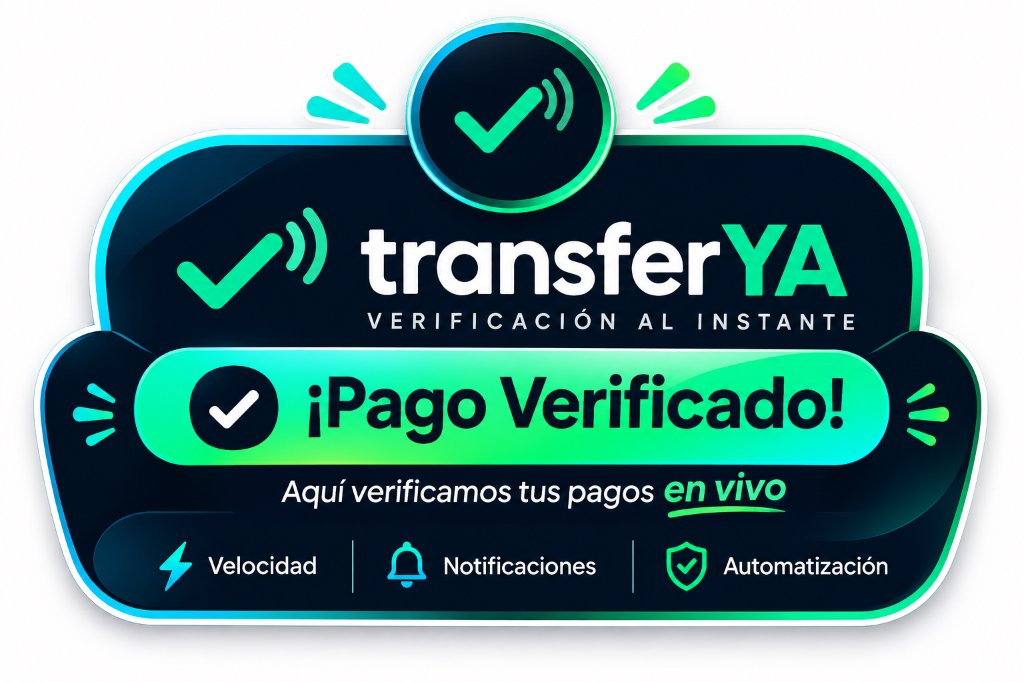
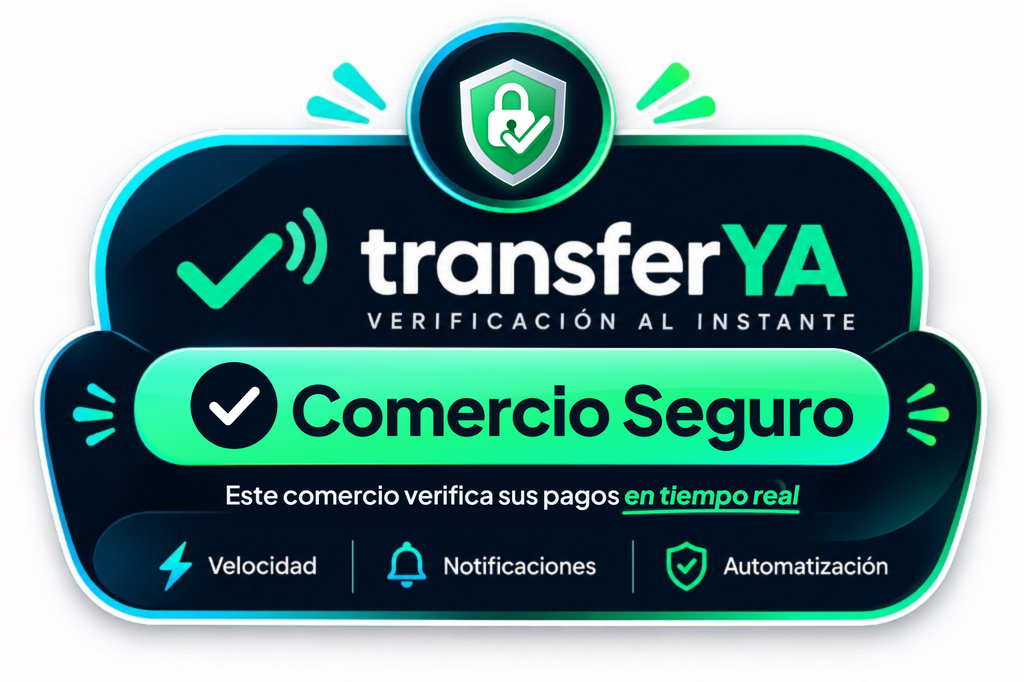
feat(stickers): nueva insignia Comercio Seguro con escudo-candado y generador actualizado

Changed region(s): [[0.125, 0.4927, 0.875, 0.7698], [0.4375, 0.0924, 0.5625, 0.2771]]

diff --git a/public/sticker.html b/public/sticker.html
@@ -132,10 +132,10 @@
           <span>Material Oficial Antifraude</span>
         </div>
         <h1 class="text-2xl sm:text-3xl font-extrabold text-[#0E1B2B] tracking-tight">
-          Sticker de Mostrador: «Aquí verificamos tus pagos»
+          Sticker de Mostrador: «Comercio Seguro»
         </h1>
         <p class="text-sm text-[#0E1B2B]/70 mt-1">
-          Pégalo al lado de tu código QR de Nequi o DaviPlata. Disuade a los estafadores antes de que intenten mostrarte un pantallazo falso.
+          Pégalo al lado de tu código QR de Nequi, DaviPlata o Bancolombia. Avisa claramente que <strong>este comercio verifica sus pagos en tiempo real</strong> y frena los pantallazos falsos.
         </p>
       </div>
 
@@ -260,6 +260,19 @@
 
       const businessLabel = merchantName ? `<span class="px-2.5 py-0.5 rounded-full bg-black/10 text-[10px] font-black uppercase tracking-wider inline-block max-w-full leading-tight text-center">${escapeHtml(merchantName)}</span>` : '';
 
+      // Ícono oficial de seguridad (Escudo con candado + check) para evitar duplicar el isotipo de TransferYA
+      const shieldLockSvg = `
+        <svg class="w-full h-full" viewBox="0 0 64 64" fill="none">
+          <path d="M32 5 L54 14.5 L53 31 C52 44.5 42.5 53 32 58.5 C21.5 53 12 44.5 11 31 L10 14.5 Z" fill="${iconStroke}" stroke="#FFFFFF" stroke-width="2.6" stroke-linejoin="round"/>
+          <path d="M25.5 29 V24.5 C25.5 20.6 28.4 18 32 18 C35.6 18 38.5 20.6 38.5 24.5 V29" stroke="#FFFFFF" stroke-width="3.6" stroke-linecap="round"/>
+          <rect x="21" y="28" width="22" height="17" rx="4" fill="#FFFFFF"/>
+          <circle cx="32" cy="35" r="2.3" fill="${iconStroke}"/>
+          <path d="M30.8 36.2 L33.2 36.2 L33.8 41.2 L30.2 41.2 Z" fill="${iconStroke}"/>
+          <path d="M30.5 41.5 L35.5 46.5 L47 34" stroke="${iconStroke}" stroke-width="6.8" stroke-linecap="round" stroke-linejoin="round"/>
+          <path d="M30.5 41.5 L35.5 46.5 L47 34" stroke="#FFFFFF" stroke-width="4" stroke-linecap="round" stroke-linejoin="round"/>
+        </svg>
+      `;
+
       // TIPO: SELLO REDONDO DE SEGURIDAD (Diámetro ~9.5 cm / 4 por hoja)
       if (type === 'circle') {
         return `
@@ -267,26 +280,22 @@
             <!-- Arco superior / Badge de seguridad -->
             <div class="mt-1">
               <span class="text-[10px] sm:text-[11px] font-black uppercase tracking-widest ${badgeClass} px-3 py-0.5 rounded-full inline-block shadow-sm">
-                ● AUDIO &amp; WHATSAPP EN VIVO ●
+                ● VERIFICACIÓN EN TIEMPO REAL ●
               </span>
             </div>
 
-            <!-- Centro: Ícono Check que suena + Titular Contundente -->
+            <!-- Centro: Escudo Candado de Seguridad + Titular Contundente -->
             <div class="flex flex-col items-center gap-1.5 my-auto">
-              <div class="w-14 h-14 sm:w-16 sm:h-16 rounded-2xl ${iconBg} p-2.5 border border-white/20 flex items-center justify-center shadow-md">
-                <svg class="w-full h-full" viewBox="0 0 64 64" fill="none">
-                  <path d="M10 34 L23 47 L44 18" stroke="${iconStroke}" stroke-width="7" stroke-linecap="round" stroke-linejoin="round"/>
-                  <path d="M48 24 C51 27.5 51 34.5 48 38" stroke="${iconStroke}" stroke-width="4.5" stroke-linecap="round"/>
-                  <path d="M55 18 C60 24 60 38 55 44" stroke="${iconStroke}" stroke-width="4.5" stroke-linecap="round"/>
-                </svg>
+              <div class="w-14 h-14 sm:w-16 sm:h-16 rounded-2xl ${iconBg} p-2 border border-white/20 flex items-center justify-center shadow-md">
+                ${shieldLockSvg}
               </div>
               
               <div class="space-y-0.5">
                 <h3 class="text-base sm:text-lg font-black uppercase tracking-tight leading-tight">
-                  AQUÍ VERIFICAMOS<br><span class="${titleHighlight}">TUS PAGOS</span>
+                  COMERCIO <span class="${titleHighlight}">SEGURO</span>
                 </h3>
-                <p class="text-[10px] sm:text-[11px] font-bold ${secondaryText} leading-snug">
-                  Alerta en voz alta y confirmación en caja
+                <p class="text-[10px] sm:text-[11px] font-bold ${secondaryText} leading-snug max-w-[195px] mx-auto">
+                  Este comercio verifica sus pagos en tiempo real
                 </p>
               </div>
 
@@ -319,27 +328,23 @@
 
             <!-- Centro Gigante -->
             <div class="flex flex-col items-center gap-3 my-auto">
-              <div class="w-20 h-20 sm:w-24 sm:h-24 rounded-3xl ${iconBg} p-3.5 border-2 border-white/25 flex items-center justify-center shadow-xl">
-                <svg class="w-full h-full" viewBox="0 0 64 64" fill="none">
-                  <path d="M10 34 L23 47 L44 18" stroke="${iconStroke}" stroke-width="7" stroke-linecap="round" stroke-linejoin="round"/>
-                  <path d="M48 24 C51 27.5 51 34.5 48 38" stroke="${iconStroke}" stroke-width="4.5" stroke-linecap="round"/>
-                  <path d="M55 18 C60 24 60 38 55 44" stroke="${iconStroke}" stroke-width="4.5" stroke-linecap="round"/>
-                </svg>
+              <div class="w-20 h-20 sm:w-24 sm:h-24 rounded-3xl ${iconBg} p-3 border-2 border-white/25 flex items-center justify-center shadow-xl">
+                ${shieldLockSvg}
               </div>
               
               <div class="space-y-1">
                 <h2 class="text-xl sm:text-2xl font-black uppercase tracking-tight leading-tight">
-                  AQUÍ VERIFICAMOS<br><span class="${titleHighlight}">TUS PAGOS EN VIVO</span>
+                  COMERCIO <span class="${titleHighlight}">SEGURO</span>
                 </h2>
                 <p class="text-xs sm:text-sm font-bold ${secondaryText} max-w-xs mx-auto">
-                  El sistema canta cada transferencia en voz alta y avisa al WhatsApp de la caja al instante.
+                  Este comercio verifica sus pagos en tiempo real. Cada transferencia se confirma en caja al instante.
                 </p>
               </div>
 
               ${businessLabel ? `<div class="px-3 py-1 rounded-lg bg-black/10 text-xs font-black uppercase tracking-wider">${businessLabel}</div>` : ''}
 
               <div class="px-3 py-1.5 rounded-xl bg-black/10 border border-current/15 text-[10px] sm:text-xs font-bold">
-                <span>⚠ Por favor espere la confirmación sonora de la caja antes de retirar mercancía</span>
+                <span>⚠ Por favor espere la confirmación en caja antes de retirar mercancía</span>
               </div>
             </div>
 
@@ -361,20 +366,16 @@
         return `
           <div class="relative rounded-2xl ${bgClass} p-3.5 sm:p-4 shadow-sm flex items-center justify-between gap-4 max-w-md mx-auto">
             <div class="flex items-center gap-3">
-              <div class="w-11 h-11 rounded-xl ${iconBg} p-2 border border-white/20 shrink-0 flex items-center justify-center shadow-sm">
-                <svg class="w-full h-full" viewBox="0 0 64 64" fill="none">
-                  <path d="M10 34 L23 47 L44 18" stroke="${iconStroke}" stroke-width="7" stroke-linecap="round" stroke-linejoin="round"/>
-                  <path d="M48 24 C51 27.5 51 34.5 48 38" stroke="${iconStroke}" stroke-width="4.5" stroke-linecap="round"/>
-                  <path d="M55 18 C60 24 60 38 55 44" stroke="${iconStroke}" stroke-width="4.5" stroke-linecap="round"/>
-                </svg>
+              <div class="w-11 h-11 rounded-xl ${iconBg} p-1.5 border border-white/20 shrink-0 flex items-center justify-center shadow-sm">
+                ${shieldLockSvg}
               </div>
               <div>
                 <div class="flex items-center gap-1.5">
-                  <span class="text-xs sm:text-sm font-black uppercase tracking-tight">Verificación en Vivo</span>
+                  <span class="text-xs sm:text-sm font-black uppercase tracking-tight">Comercio Seguro</span>
                   ${businessLabel}
                 </div>
                 <p class="text-[10px] sm:text-[11px] font-bold ${secondaryText} leading-snug">
-                  Tu pago canta en la caja y avisa por WhatsApp.
+                  Este comercio verifica sus pagos en tiempo real.
                 </p>
               </div>
             </div>
@@ -391,21 +392,17 @@
         return `
           <div class="relative rounded-2xl ${bgClass} p-4 sm:p-5 shadow-sm flex flex-col sm:flex-row items-center justify-between gap-4 text-left">
             <div class="flex items-center gap-3.5">
-              <!-- Check que suena -->
-              <div class="w-12 h-12 rounded-xl ${iconBg} p-2 border border-white/20 shrink-0 flex items-center justify-center">
-                <svg class="w-full h-full" viewBox="0 0 64 64" fill="none">
-                  <path d="M10 34 L23 47 L44 18" stroke="${iconStroke}" stroke-width="7" stroke-linecap="round" stroke-linejoin="round"/>
-                  <path d="M48 24 C51 27.5 51 34.5 48 38" stroke="${iconStroke}" stroke-width="4.5" stroke-linecap="round"/>
-                  <path d="M55 18 C60 24 60 38 55 44" stroke="${iconStroke}" stroke-width="4.5" stroke-linecap="round"/>
-                </svg>
+              <!-- Escudo Candado -->
+              <div class="w-12 h-12 rounded-xl ${iconBg} p-1.5 border border-white/20 shrink-0 flex items-center justify-center">
+                ${shieldLockSvg}
               </div>
               <div>
                 <div class="flex items-center gap-2">
-                  <span class="text-base sm:text-lg font-extrabold tracking-tight">Aquí verificamos tus pagos</span>
+                  <span class="text-base sm:text-lg font-extrabold tracking-tight">Comercio Seguro</span>
                   ${businessLabel}
                 </div>
                 <p class="text-xs ${secondaryText} font-medium mt-0.5">
-                  Esperar confirmación de audio y WhatsApp antes de retirar mercancía.
+                  Este comercio verifica sus pagos en tiempo real. Esperar confirmación antes de retirar mercancía.
                 </p>
               </div>
             </div>
@@ -427,15 +424,11 @@
           <div class="flex items-start justify-between gap-2">
             <div class="flex items-center gap-2">
               <div class="w-8 h-8 rounded-lg ${iconBg} p-1 border border-white/20 shrink-0 flex items-center justify-center">
-                <svg class="w-full h-full" viewBox="0 0 64 64" fill="none">
-                  <path d="M10 34 L23 47 L44 18" stroke="${iconStroke}" stroke-width="7.5" stroke-linecap="round" stroke-linejoin="round"/>
-                  <path d="M48 24 C51 27.5 51 34.5 48 38" stroke="${iconStroke}" stroke-width="5" stroke-linecap="round"/>
-                  <path d="M55 18 C60 24 60 38 55 44" stroke="${iconStroke}" stroke-width="5" stroke-linecap="round"/>
-                </svg>
+                ${shieldLockSvg}
               </div>
               <div>
-                <span class="text-[13px] font-extrabold block leading-tight">Aquí verificamos tus pagos</span>
-                <span class="text-[9px] ${secondaryText} block font-medium">Validación por audio y WhatsApp</span>
+                <span class="text-[13px] font-extrabold block leading-tight">Comercio Seguro</span>
+                <span class="text-[9px] ${secondaryText} block font-medium">Este comercio verifica sus pagos en tiempo real</span>
               </div>
             </div>
             ${businessLabel}
@@ -459,13 +452,15 @@
         .replace(/'/g, '&#039;');
     }
 
+    const STICKER_BADGE_SRC = '/images/sticker-diecut-badge.jpg?v=2';
+
     function getDiecutCardHtml(maxWidthClass, merchantName) {
       const cleanName = merchantName ? escapeHtml(merchantName.trim().toUpperCase()) : '';
 
       if (!cleanName) {
         return `
           <div class="relative w-full ${maxWidthClass} aspect-[1024/682] select-none mx-auto">
-            <img src="/images/sticker-diecut-badge.jpg" alt="Sticker Oficial TransferYA" class="w-full h-full object-contain pointer-events-none drop-shadow-md" />
+            <img src="${STICKER_BADGE_SRC}" alt="Sticker Oficial Comercio Seguro TransferYA" class="w-full h-full object-contain pointer-events-none drop-shadow-md" />
           </div>
         `;
       }
@@ -482,33 +477,39 @@
 
       // Estimación del ancho para centrar el subrayado curvado neón
       const charWidthEst = fontSize * 0.62;
-      const approxTextWidth = Math.min(cleanName.length * charWidthEst, 620);
-      const underlineHalf = Math.min(approxTextWidth / 2 + 14, 290);
+      const approxTextWidth = Math.min(cleanName.length * charWidthEst, 580);
+      const underlineHalf = Math.min(approxTextWidth / 2 + 14, 270);
 
       return `
         <div class="relative w-full ${maxWidthClass} aspect-[1024/682] select-none mx-auto">
           <!-- Imagen base HD del troquelado -->
-          <img src="/images/sticker-diecut-badge.jpg" alt="Sticker Oficial TransferYA" class="w-full h-full object-contain pointer-events-none drop-shadow-md" />
+          <img src="${STICKER_BADGE_SRC}" alt="Sticker Oficial Comercio Seguro TransferYA" class="w-full h-full object-contain pointer-events-none drop-shadow-md" />
 
-          <!-- Capa vectorial SVG con sistema de coordenadas nativo 1024x682 (Garantiza cero cortes y nitidez proporcional en cualquier pantalla o papel) -->
+          <!-- Capa vectorial SVG con sistema de coordenadas nativo 1024x682 (calibrada al milímetro sobre la banda #010f20) -->
           <svg viewBox="0 0 1024 682" class="absolute inset-0 w-full h-full pointer-events-none z-10" xmlns="http://www.w3.org/2000/svg">
             <defs>
               <filter id="neonGlowBadge" x="-20%" y="-20%" width="140%" height="140%">
                 <feDropShadow dx="0" dy="0" stdDeviation="3.5" flood-color="#19C37D" flood-opacity="0.8"/>
               </filter>
+              <linearGradient id="customPatchFade" x1="0%" y1="0%" x2="100%" y2="0%">
+                <stop offset="0%" stop-color="#010f20" stop-opacity="0" />
+                <stop offset="4%" stop-color="#010f20" stop-opacity="1" />
+                <stop offset="96%" stop-color="#010f20" stop-opacity="1" />
+                <stop offset="100%" stop-color="#010f20" stop-opacity="0" />
+              </linearGradient>
             </defs>
 
-            <!-- Parche de fondo continuo calibrado (#011021) que cubre el texto genérico previo sin tocar otros elementos -->
-            <rect x="160" y="465" width="704" height="66" fill="#011021" rx="6" />
+            <!-- Parche de fondo con degradado suave en bordes para preservar el contorno inferior sin costuras -->
+            <rect x="180" y="466" width="664" height="58" fill="url(#customPatchFade)" />
 
-            <!-- Línea 1: Subtítulo aclaratorio -->
-            <text x="512" y="481" text-anchor="middle" dominant-baseline="middle" fill="#CBD5E1" font-family="'Plus Jakarta Sans', system-ui, -apple-system, sans-serif" font-size="14.5" font-weight="600" letter-spacing="0.4">Aquí verificamos los pagos en vivo de:</text>
+            <!-- Línea 1: Subtítulo institucional -->
+            <text x="512" y="479" text-anchor="middle" dominant-baseline="middle" fill="#CBD5E1" font-family="'Plus Jakarta Sans', system-ui, -apple-system, sans-serif" font-size="14" font-weight="600" letter-spacing="0.3">Este comercio verifica sus pagos en tiempo real:</text>
 
             <!-- Línea 2: Nombre del negocio (Completo, sin cortes, auto-escalado) -->
-            <text x="512" y="504" text-anchor="middle" dominant-baseline="middle" fill="#19C37D" filter="url(#neonGlowBadge)" font-family="'Plus Jakarta Sans', system-ui, -apple-system, sans-serif" font-size="${fontSize}" font-weight="900" letter-spacing="0.8">${cleanName}</text>
+            <text x="512" y="501" text-anchor="middle" dominant-baseline="middle" fill="#18EE8E" filter="url(#neonGlowBadge)" font-family="'Plus Jakarta Sans', system-ui, -apple-system, sans-serif" font-size="${fontSize}" font-weight="900" letter-spacing="0.8">${cleanName}</text>
 
             <!-- Línea 3: Acento inferior curvado verde neón -->
-            <path d="M ${512 - underlineHalf} 519 Q 512 522 ${512 + underlineHalf} 519" stroke="#19C37D" stroke-width="2.5" stroke-linecap="round" fill="none" opacity="0.9" />
+            <path d="M ${512 - underlineHalf} 516 Q 512 519 ${512 + underlineHalf} 516" stroke="#18EE8E" stroke-width="2.5" stroke-linecap="round" fill="none" opacity="0.9" />
           </svg>
         </div>
       `;
@@ -519,13 +520,13 @@
       try {
         const img = new Image();
         img.crossOrigin = 'anonymous';
-        img.src = '/images/sticker-diecut-badge.jpg';
+        img.src = STICKER_BADGE_SRC;
         img.onload = () => {
           try {
             if (!merchantName) {
               const a = document.createElement('a');
-              a.href = '/images/sticker-diecut-badge.jpg';
-              a.download = 'TransferYA-Sticker-Oficial-HD.jpg';
+              a.href = STICKER_BADGE_SRC;
+              a.download = 'TransferYA-Comercio-Seguro-HD.jpg';
               a.click();
               return;
             }
@@ -536,14 +537,19 @@
             ctx.drawImage(img, 0, 0);
 
             const cleanName = merchantName.toUpperCase();
-            ctx.fillStyle = '#011021';
-            ctx.fillRect(160, 465, 704, 66);
+            const patchGrad = ctx.createLinearGradient(180, 0, 844, 0);
+            patchGrad.addColorStop(0, 'rgba(1, 15, 32, 0)');
+            patchGrad.addColorStop(0.04, 'rgba(1, 15, 32, 1)');
+            patchGrad.addColorStop(0.96, 'rgba(1, 15, 32, 1)');
+            patchGrad.addColorStop(1, 'rgba(1, 15, 32, 0)');
+            ctx.fillStyle = patchGrad;
+            ctx.fillRect(180, 466, 664, 58);
 
             ctx.textAlign = 'center';
             ctx.textBaseline = 'middle';
-            ctx.font = "600 14.5px 'Plus Jakarta Sans', system-ui, sans-serif";
+            ctx.font = "600 14px 'Plus Jakarta Sans', system-ui, sans-serif";
             ctx.fillStyle = '#CBD5E1';
-            ctx.fillText('Aquí verificamos los pagos en vivo de:', 512, 481);
+            ctx.fillText('Este comercio verifica sus pagos en tiempo real:', 512, 479);
 
             let fontSize = 21;
             if (cleanName.length > 34) fontSize = 13.5;
@@ -552,46 +558,46 @@
 
             ctx.font = `900 ${fontSize}px 'Plus Jakarta Sans', system-ui, sans-serif`;
             let textWidth = ctx.measureText(cleanName).width;
-            while (textWidth > 620 && fontSize > 11) {
+            while (textWidth > 580 && fontSize > 11) {
               fontSize -= 1;
               ctx.font = `900 ${fontSize}px 'Plus Jakarta Sans', system-ui, sans-serif`;
               textWidth = ctx.measureText(cleanName).width;
             }
 
-            ctx.shadowColor = '#19C37D';
+            ctx.shadowColor = '#18EE8E';
             ctx.shadowBlur = 8;
-            ctx.fillStyle = '#19C37D';
-            ctx.fillText(cleanName, 512, 504);
+            ctx.fillStyle = '#18EE8E';
+            ctx.fillText(cleanName, 512, 501);
 
             ctx.shadowBlur = 0;
-            ctx.strokeStyle = '#19C37D';
+            ctx.strokeStyle = '#18EE8E';
             ctx.lineWidth = 2.5;
             ctx.beginPath();
-            const lineHalfW = Math.min(textWidth / 2 + 14, 290);
-            ctx.moveTo(512 - lineHalfW, 519);
-            ctx.quadraticCurveTo(512, 522, 512 + lineHalfW, 519);
+            const lineHalfW = Math.min(textWidth / 2 + 14, 270);
+            ctx.moveTo(512 - lineHalfW, 516);
+            ctx.quadraticCurveTo(512, 519, 512 + lineHalfW, 516);
             ctx.stroke();
 
             const dataUrl = canvas.toDataURL('image/jpeg', 0.96);
             const a = document.createElement('a');
             a.href = dataUrl;
-            a.download = `TransferYA-Sticker-${cleanName.replace(/[^a-zA-Z0-9]/g, '_')}.jpg`;
+            a.download = `TransferYA-Comercio-Seguro-${cleanName.replace(/[^a-zA-Z0-9]/g, '_')}.jpg`;
             a.click();
           } catch (e) {
             const a = document.createElement('a');
-            a.href = '/images/sticker-diecut-badge.jpg';
-            a.download = 'TransferYA-Sticker-Oficial-HD.jpg';
+            a.href = STICKER_BADGE_SRC;
+            a.download = 'TransferYA-Comercio-Seguro-HD.jpg';
             a.click();
           }
         };
         img.onerror = () => {
           const a = document.createElement('a');
-          a.href = '/images/sticker-diecut-badge.jpg';
-          a.download = 'TransferYA-Sticker-Oficial-HD.jpg';
+          a.href = STICKER_BADGE_SRC;
+          a.download = 'TransferYA-Comercio-Seguro-HD.jpg';
           a.click();
         };
       } catch (e) {
-        window.open('/images/sticker-diecut-badge.jpg', '_blank');
+        window.open(STICKER_BADGE_SRC, '_blank');
       }
     }
 

diff --git a/public/landing.html b/public/landing.html
@@ -277,12 +277,15 @@
 
               <!-- Sticker de caja sobrepuesto (calibrado para no desbordar móvil) -->
               <div class="absolute -bottom-3 left-2 sm:-left-4 max-w-[calc(100%-1rem)] bg-white rounded-full py-1.5 px-3 sm:py-2 sm:px-3.5 counter-sticker border border-gray-200 flex items-center gap-2 shadow-md z-10">
-                <svg class="w-5 h-5 text-[#19C37D] shrink-0" viewBox="0 0 64 64" fill="none">
-                  <path d="M10 34 L23 47 L44 18" stroke="#19C37D" stroke-width="7" stroke-linecap="round" stroke-linejoin="round"/>
-                  <path d="M48 24 C51 27.5 51 34.5 48 38" stroke="#19C37D" stroke-width="4.5" stroke-linecap="round"/>
-                  <path d="M55 18 C60 24 60 38 55 44" stroke="#19C37D" stroke-width="4.5" stroke-linecap="round"/>
+                <svg class="w-5 h-5 shrink-0" viewBox="0 0 64 64" fill="none">
+                  <path d="M32 5 L54 14.5 L53 31 C52 44.5 42.5 53 32 58.5 C21.5 53 12 44.5 11 31 L10 14.5 Z" fill="#19C37D"/>
+                  <path d="M25.5 29 V24.5 C25.5 20.6 28.4 18 32 18 C35.6 18 38.5 20.6 38.5 24.5 V29" stroke="#FFFFFF" stroke-width="3.8" stroke-linecap="round"/>
+                  <rect x="21" y="28" width="22" height="17" rx="4" fill="#FFFFFF"/>
+                  <circle cx="32" cy="35" r="2.3" fill="#0B7A4B"/>
+                  <path d="M30.5 41.5 L35.5 46.5 L47 34" stroke="#19C37D" stroke-width="6.5" stroke-linecap="round" stroke-linejoin="round"/>
+                  <path d="M30.5 41.5 L35.5 46.5 L47 34" stroke="#FFFFFF" stroke-width="3.8" stroke-linecap="round" stroke-linejoin="round"/>
                 </svg>
-                <span class="text-xs font-bold text-[#0E1B2B] truncate">Aquí verificamos tus pagos</span>
+                <span class="text-xs font-bold text-[#0E1B2B] truncate">Comercio Seguro · Pagos en tiempo real</span>
               </div>
 
             </div>
@@ -479,7 +482,7 @@
             </h2>
 
             <p class="text-base sm:text-lg text-[#0E1B2B]/75 leading-relaxed font-normal">
-              Pégalo al lado de tu código QR de Nequi o DaviPlata. Los estafadores buscan negocios distraídos; cuando ven el aviso de <strong>«Aquí verificamos tus pagos»</strong>, prefieren pagar de verdad o marcharse.
+              Pégalo al lado de tu código QR de Nequi o DaviPlata. Los estafadores buscan negocios distraídos; cuando ven el sello de <strong>«Comercio Seguro · Este comercio verifica sus pagos en tiempo real»</strong>, prefieren pagar de verdad o marcharse.
             </p>
 
             <!-- Características del Sticker -->
@@ -541,7 +544,7 @@
               <!-- Mockup HD del Troquelado Oficial -->
               <div class="bg-gradient-to-b from-[#0E1B2B] to-[#040911] rounded-2xl p-4 sm:p-5 border-2 border-[#19C37D]/30 shadow-xl text-center relative overflow-hidden group">
                 <div class="relative w-full max-w-[340px] aspect-[1024/682] mx-auto drop-shadow-2xl transition-transform duration-300 group-hover:scale-[1.02]">
-                  <img src="/images/sticker-diecut-badge.jpg" alt="Insignia Oficial TransferYA" class="w-full h-full object-contain pointer-events-none rounded-xl" />
+                  <img src="/images/sticker-diecut-badge.jpg?v=2" alt="Insignia Oficial Comercio Seguro TransferYA" class="w-full h-full object-contain pointer-events-none rounded-xl" />
                 </div>
                 
                 <div class="mt-3 pt-3 border-t border-white/10 flex items-center justify-between text-left text-white/80">

diff --git a/public/sw.js b/public/sw.js
@@ -1,9 +1,10 @@
 // TransferYA Service Worker
-const CACHE_NAME = 'transferya-cache-v45';
+const CACHE_NAME = 'transferya-cache-v46';
 const STATIC_ASSETS = [
   '/',
   '/index.html',
   '/landing.html',
+  '/sticker.html',
   '/calculadora.html',
   '/go.html',
   '/admin.html',
